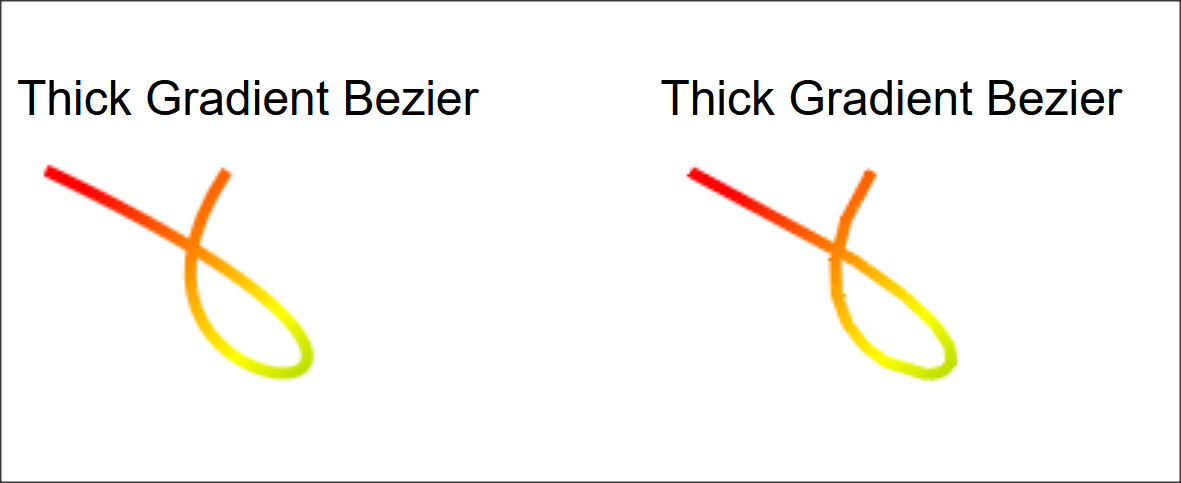
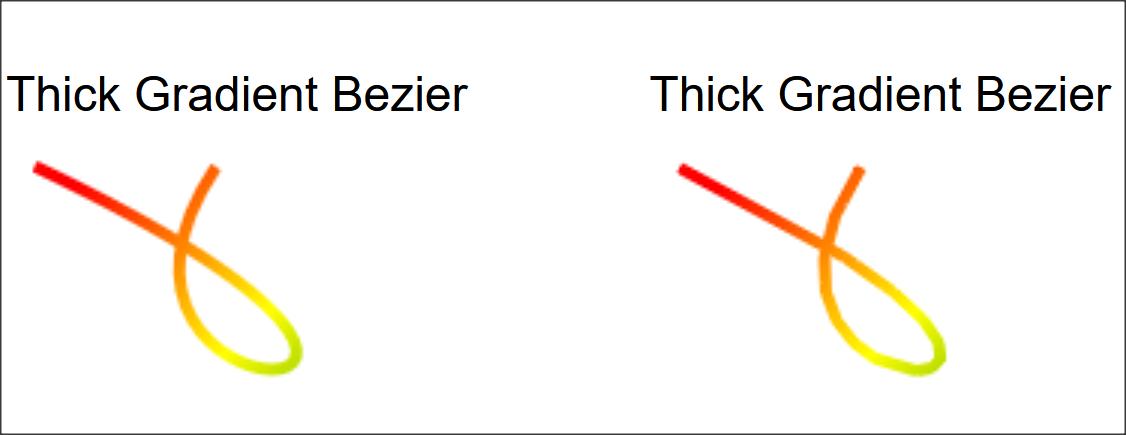
v.0.9.4
* line widths < 1
* better curve sampling
* fix/optimize fill_triangle

diff --git a/src/Rasterizer.min.js b/src/Rasterizer.min.js
@@ -6,4 +6,4 @@
 *   https://github.com/foo123/Rasterizer
 *
 **/
-!function(r,n,e){"use strict";"object"==typeof module&&module.exports?module.exports=e.call(r):"function"==typeof define&&define.amd&&"function"==typeof require&&"function"==typeof require.specified&&require.specified(n)?define(n,["module"],function(n){return e.call(r)}):n in r||(r[n]=e.call(r)||1)&&"function"==typeof define&&define.amd&&define(function(){return r[n]})}("undefined"!=typeof self?self:this,"Rasterizer",function(n){"use strict";var r=Object.defineProperty,Y=Math,D=Y.PI,e=1e-6,t=Y.sqrt(2),G=8,c=2,F=1,u="undefined"!=typeof Uint8ClampedArray?Uint8ClampedArray:"undefined"!=typeof Uint8Array?Uint8Array:Array;function s(h,g,o){var b=this;if(!(b instanceof s))return new s(h,g,o);var t,i=s.getRGBAFrom([0,0,0,1]),l=s.getRGBAFrom([0,0,0,1]),q="butt",a="miter",A=1,R=1,k=[],S=function(){t={}},w=function(n){for(var r in t){var e=t[r],r=r.split(",");n(+r[0],+r[1],e)}},B=function(n,r,e){0<=n&&n<h&&0<=r&&r<g&&0<e&&(e*=R,n=String(n)+","+String(r),(t[n]||0)<e)&&(t[n]=e)},C=function(n,r,e){var t=i(n,r),u=3<t.length?t[3]:1;0<u&&o(n,r,t[0],t[1],t[2],u*e)},f=function(n,r,e){var t=l(n,r),u=3<t.length?t[3]:1;0<u&&o(n,r,t[0],t[1],t[2],u*e)};r(b,"strokeStyle",{get:function(){return""},set:function(n){i=s.getRGBAFrom(n)}}),r(b,"fillStyle",{get:function(){return""},set:function(n){l=s.getRGBAFrom(n)}}),r(b,"lineWidth",{get:function(){return A},set:function(n){0<(n=Y.abs(+n||0))&&(A=n)}}),r(b,"lineCap",{get:function(){return q},set:function(n){n=String(n).toLowerCase(),-1!==["butt","square"].indexOf(n)?q=n:d('"'+n+'" lineCap is not supported!')}}),r(b,"lineJoin",{get:function(){return a},set:function(n){n=String(n).toLowerCase(),-1!==["miter","bevel"].indexOf(n)?a=n:d('"'+n+'" lineJoin is not supported!')}}),r(b,"lineDash",{get:function(){return k.slice()},set:function(n){1&(n=[].concat(n)).length&&(n=n.concat(n)),k=n}}),b.setLineDash=function(n){b.lineDash=n},b.strokeRect=function(n,r,e,t){var u;return 1<=e&&1<=t&&0<A&&(u=R,A<1&&(R=A),S(),L(B,[n,r,n+e-1,r,n+e-1,r+t-1,n,r+t-1,n,r],A,0,"butt","miter",0,0,h-1,g-1),w(C),R=u),b},b.fillRect=function(n,r,e,t){var u,o,i,l;return 1<=e&&1<=t&&(S(),e=n+e-1,t=(r=r)+t-1,o=u=0,i=h-1,l=g-1,O(B,Y.round(n),Y.round(r),Y.round(e),Y.round(t),u,o,i,l),w(f)),b},b.strokePolyline=function(){var n;return 0<A&&(n=R,A<1&&(R=A),S(),L(B,arguments,A,0,q,a,0,0,h-1,g-1),w(C),R=n),b},b.strokeArc=function(n,r,e,t,u,o,i,l){var f,a,c,s,d,y,x,m,v,p;return 0<A&&(l=l?(x=-i-D,o):(x=o,i),o=R,A<1&&(R=A),S(),i=B,f=n,a=r,c=e,s=t,n=u,d=x,y=l,r=A,e=k,t=q,x=u=0,l=h-1,m=g-1,v=Y.cos(n),p=Y.sin(n),L(i,P(function(n){var n=d+n*(y-d),r=c*Y.cos(n),n=s*Y.sin(n);return[f+v*r-p*n,a+p*r+v*n]},G,F,!0),r,0,t,"bevel",u,x,l,m),w(C),R=o),b},b.strokeBezier=function(){var n,i,r,e,t,u,o,l,f;return 0<A&&4<=arguments.length&&(n=R,A<1&&(R=A),S(),4===arguments.length?L(B,arguments,A,0,q,a,0,0,h-1,g-1):(r=A,e=k,t=q,o=u=0,l=h-1,f=g-1,L(B,P(6<(i=arguments).length?function(n){var r=1-n,e=n*n,t=r*r,u=t*r,o=e*n,t=3*t*n,n=3*e*r;return[u*i[0]+t*i[2]+n*i[4]+o*i[6],u*i[1]+t*i[3]+n*i[5]+o*i[7]]}:function(n){var r=1-n,e=r*r,r=2*r*n,n=n*n;return[e*i[0]+r*i[2]+n*i[4],e*i[1]+r*i[3]+n*i[5]]},G,F,!0),r,0,t,"bevel",u,o,l,f)),w(C),R=n),b}}function L(U,n,z,E,r,J,N,j,W,M){var e,t,u,o,i,T,V,H,K,l,f,Q,a,c,s,d,y,x,m,v,p,h,g,b,q,A,R,k,S,w,B,C,D,G,F,L,O,P,I,X=n.length;if(X<6)Z(U,t=n[0],u=n[1],o=n[2],i=n[3],l=Y.abs(o-t),f=Y.abs(i-u),(a=$(z,l,f))[0],a[1],r,r,N,j,W,M);else for(X-=2,e=0;e<X;e+=2)Z(U,t=n[e],u=n[e+1],o=n[e+2],i=n[e+3],l=Y.abs(o-t),f=Y.abs(i-u),(a=$(z,l,f))[0],a[1],0===e?r:null,X===e+2?r:null,N,j,W,M),1<z&&0<e&&(c=U,s=T,d=V,y=t,x=u,m=o,v=i,p=H,h=K,g=Q[0],b=Q[1],q=l,A=f,R=a[0],k=a[1],w=N,B=j,C=W,D=M,I=P=O=L=F=G=void 0,"bevel"!==(S=J)&&"miter"!==S||en(h*q,A*p)||(y<s&&m<y&&(I=s,s=m,m=I,I=d,d=v,v=I,I=p,p=q,q=I,I=h,h=A,A=I,I=g,g=R,R=I,I=b,b=k,k=I),b={x:s-(q=(p=y<s?-1:1)*g),y:d+(g=(A=x<d?-1:1)*b)},s={x:s+q,y:d-g},d={x:y-q,y:x+g},q={x:y+q,y:x-g},F={x:y-(R=(g=m<y?-1:1)*R),y:x+(k=(G=v<x?-1:1)*k)},L={x:y+R,y:x-k},O={x:m-R,y:v+k},m={x:m+R,y:v-k},R={x:y,y:x},v=p==g?A==G?tn(h,0)?(P=q,L):(P=d,F):(P=d,L):(P=q,F),"bevel"===S?(rn(c,P.x,P.y,v.x,v.y,null,null,w,B,C,D),nn(c,R.x,R.y,P.x,P.y,v.x,v.y,w,B,C,D)):"miter"===S&&(I=p==g?A==G?tn(h,0)?_(s.x,s.y,q.x,q.y,L.x,L.y,m.x,m.y):_(b.x,b.y,d.x,d.y,F.x,F.y,O.x,O.y):_(b.x,b.y,d.x,d.y,L.x,L.y,m.x,m.y):_(s.x,s.y,q.x,q.y,F.x,F.y,O.x,O.y),rn(c,P.x,P.y,I.x,I.y,null,null,w,B,C,D),rn(c,v.x,v.y,I.x,I.y,null,null,w,B,C,D),nn(c,R.x,R.y,P.x,P.y,v.x,v.y,w,B,C,D),nn(c,I.x,I.y,P.x,P.y,v.x,v.y,w,B,C,D)))),T=t,V=u,H=l,K=f,Q=a}function Z(n,r,e,t,u,o,i,l,f,a,c,s,d,y,x){var m;0===l&&0===f?rn(n,r,e,t,u,o,i,s,d,y,x):(n=n,e=e,u=u,i=i,l=l,f=f,a=a,c=c,s=s,d=d,y=y,x=x,(t=t)<(r=r)&&(m=r,r=t,t=m,m=e,e=u,u=m,m=a,a=c,c=m),m=u<e?-1:1,tn(o=o,0)?("square"===a&&(e-=m*l),"square"===c&&(u+=m*l),O(n,Y.round(r-l),Y.round(e),Y.round(r+l),Y.round(u),s,d,y,x)):tn(i,0)?("square"===a&&(r-=+f),"square"===c&&(t+=+f),O(n,Y.round(r),Y.round(e-f),Y.round(t),Y.round(e+f),s,d,y,x)):("square"===a&&(r-=+f,e-=m*l),"square"===c&&(t+=+f,u+=m*l),i=t-(o=+l),c=u+(a=m*f),l=t+o,m=u-a,rn(n,f=r-o,t=e+a,u=r+o,r=e-a,null,null,s,d,y,x),rn(n,u,r,l,m,null,null,s,d,y,x),rn(n,l,m,i,c,null,null,s,d,y,x),rn(n,i,c,f,t,null,null,s,d,y,x),nn(n,f,t,u,r,i,c,s,d,y,x),nn(n,u,r,i,c,l,m,s,d,y,x)))}function $(n,r,e){return n<=1?[0,0]:tn(r,0)?[(n-1)/2,0]:tn(e,0)?[0,(n-1)/2]:[e*(n=(n-1)/2)/(e=x(r,e)),r*n/e]}function _(n,r,e,t,u,o,i,l){var f=t-r,a=n-e,e=e*r-n*t,r=l-o,n=u-i,t=i*o-u*l,i=f*n-a*r;return!en(i,0)&&{x:(a*t-e*n)/i,y:(e*r-f*t)/i}}function O(n,r,e,t,u,o,i,l,f){var a,c;if(t<r&&(a=r,r=t,t=a),u<e&&(c=e,e=u,u=c),null!=o){if(t<o||l<r||u<i||f<e)return;r=Y.max(r,o),e=Y.max(e,i),t=Y.min(t,l),u=Y.min(u,f)}if(e===u)for(a=r;a<=t;++a)n(a,e,1);else if(r===t)for(c=e;c<=u;++c)n(r,c,1);else for(c=e;c<=u;++c)for(a=r;a<=t;++a)n(a,c,1)}function nn(n,r,e,t,u,o,i,l,f,a,c){var s,d,y,x,m,v,p,h,g,b,q,A,R,k,S=null!=l;if(!S||!(Y.max(r,t,o)<l||Y.min(r,t,o)>a||Y.max(e,u,i)<f||Y.min(e,u,i)>c)){if(u<e&&(y=e,e=u,u=y,y=r,r=t,t=y),i<e&&(y=e,e=i,i=y,y=r,r=o,o=y),i<u&&(y=u,u=i,i=y,y=t,t=o,o=y),tn(b=i-e,0))return x=Y.round(e),O(n,s=Y.round(Y.min(r,t,o)),x,d=Y.round(Y.max(r,t,o)),x,l,f,a,c);for(A=i-u,p=o-r,h=t-r,g=o-t,R=tn(q=u-e,0),k=tn(A,0),x=Y.round(e+.5),m=Y.round(u),v=Y.round(i-.5),S&&(x=Y.max(f,x),v=Y.min(c,v));x<=v;++x)if(d=x<m?R?(s=r,t):(s=p*(x-e)/b+r,h*(x-e)/q+r):k?(s=t,o):(s=p*(x-e)/b+r,g*(x-u)/A+t),Y.abs(d-s)<1)(!S||l<=s&&s<=a)&&n(Y.round(s),x,1);else for(d<s&&(y=s,s=d,d=y),s=Y.round(s+.5),d=Y.round(d-.5),S&&(s=Y.max(l,s),d=Y.min(a,d));s<=d;++s)n(s,x,1)}}function rn(n,r,e,t,u,o,i,l,f,a,c){var s=Y.min(r,t),d=Y.max(r,t),y=Y.min(e,u),x=Y.max(e,u);if(!(d<l||a<s||x<f||c<y)){if(null==o&&(o=Y.abs(t-r),i=Y.abs(u-e)),s<l||a<d||y<f||c<x){s=function(n,r,e,t,u,o,i,l){var f=-(e=-(e-n)),a=-(t=-(t-r)),u=n-u,i=i-n,o=r-o,l=l-r,c=1,s=0;if(!(0==e&&u<0||0==f&&i<0||0==t&&o<0||0==a&&l<0||(0!=e&&(u=u/e,i=i/f,e<0?(s<u&&(s=u),i<c&&(c=i)):(s<i&&(s=i),u<c&&(c=u))),0!=t&&(e=o/t,i=l/a,t<0?(s<e&&(s=e),i<c&&(c=i)):(s<i&&(s=i),e<c&&(c=e))),c<s)))return[n+f*s,r+a*s,n+f*c,r+a*c]}(r,e,t,u,l,f,a,c);if(!s)return;r=s[0],e=s[1],t=s[2],u=s[3]}if(tn(o,0)||tn(i,0))return O(n,Y.round(r),Y.round(e),Y.round(t),Y.round(u));var m,v,p,h,g=0,b=0,q=0,d=o<i;if(d&&(m=r,r=e,e=m,m=t,t=u,u=m,m=o,o=i,i=m),t<r&&(m=r,r=t,t=m,v=e,e=u,u=v),x=e+(h=(u<e?-1:1)*i/o)*((y=Y.round(r))-r),l=1-(r+.5-Y.floor(r+.5)),f=y,q=1-(b=x-(a=Y.floor(x))),d?(n(a,f,q*l),n(a+1,f,b*l)):(n(f,a,q*l),n(f,a+1,b*l)),g=x+h,x=u+h*((y=Y.round(t))-t),l=t+.5-Y.floor(t+.5),p=y,q=1-(b=x-(c=Y.floor(x))),d?(n(c,p,q*l),n(c+1,p,b*l)):(n(p,c,q*l),n(p,c+1,b*l)),d)for(m=f+1;m<p;++m)0<(q=1-(b=g-(v=Y.floor(g))))&&n(v,m,q),0<b&&n(v+1,m,b),g+=h;else for(m=f+1;m<p;++m)0<(q=1-(b=g-(v=Y.floor(g))))&&n(m,v,q),0<b&&n(m,v+1,b),g+=h}}function d(n){throw new Error(n)}function y(n,r,e){return Y.min(Y.max(n,r),e)}function en(n,r){return Y.abs(n-r)<e}function tn(n,r){return Y.abs(n-r)<Number.EPSILON}function x(n,r){n=Y.abs(n),r=Y.abs(r);var e=0;return tn(n,0)?r:tn(r,0)?n:r<n?n*Y.sqrt(1+(e=r/n)*e):n<r?r*Y.sqrt(1+(e=n/r)*e):n*t}function m(n,r,e){var t=r[0],r=r[1],u=e[0],e=e[1],o=n[0],n=n[1],u=u-t,e=e-r,i=x(u,e);return tn(i,0)?x(o-t,n-r):Y.abs(u*(r-n)-e*(t-o))/i}function P(n,r,e,t){null==r&&(r=G),null==e&&(e=F);var u,o,i=[];if(t)for(o=n(0),i.push(o[0],o[1]),u=0;u<r;++u)!function n(r,e,t,u,o,i,l){if(u<=t||en(t,u))return;var f,a,i=i||e(t),l=l||e(u);if(x(l[0]-i[0],l[1]-i[1])<=c)return void r.push(l[0],l[1]);f=(t+u)/2;a=e(f);m(a,i,l)<=o?r.push(l[0],l[1]):(n(r,e,t,f,o,i,a),n(r,e,f,u,o,a,l))}(i,n,0===u?0:u/r,r===u+1?1:(u+1)/r,e,null,null);else for(u=0;u<=r;++u)o=n(0===u?0:r===u?1:u/r),i.push(o[0],o[1]);return i}return s.VERSION="0.9.4",s.prototype={constructor:s,strokeStyle:null,fillStyle:null,lineWidth:null,lineCap:null,lineJoin:null,lineDash:null,setLineDash:null,strokeRect:null,fillRect:null,strokePolyline:null,strokeArc:null,strokeBezier:null},s.createImageData=function(n,r){return{data:new u(n*r<<2),width:n,height:r}},s.getRGBAFrom=function(e){var t;return"function"==typeof e?function(n,r){n=e(n,r);return[n[0],n[1],n[2],3<n.length?n[3]/255:1]}:(t=[e[0],e[1],e[2],3<e.length?e[3]:1],function(n,r){return t})},s.setRGBATo=function(i){var c,s,d;return"function"==typeof i?function(n,r,e,t,u,o){0<o&&i(n,r,e,t,u,o)}:(c=i.width,s=i.height,d=i.data,function(n,r,e,t,u,o){var i,l,f,a;0<=n&&n<c&&0<=r&&r<s&&0<o&&(r=d[n=n+c*r<<2],i=d[1+n],l=d[2+n],0<(a=(o=o)+(f=d[3+n]/255)*(1-o)))&&(d[n]=y(Y.round((e*o+r*f*(1-o))/a),0,255),d[1+n]=y(Y.round((t*o+i*f*(1-o))/a),0,255),d[2+n]=y(Y.round((u*o+l*f*(1-o))/a),0,255),d[3+n]=y(Y.round(255*a),0,255))})},s});
+!function(r,n,e){"use strict";"object"==typeof module&&module.exports?module.exports=e.call(r):"function"==typeof define&&define.amd&&"function"==typeof require&&"function"==typeof require.specified&&require.specified(n)?define(n,["module"],function(n){return e.call(r)}):n in r||(r[n]=e.call(r)||1)&&"function"==typeof define&&define.amd&&define(function(){return r[n]})}("undefined"!=typeof self?self:this,"Rasterizer",function(n){"use strict";var r=Object.defineProperty,Y=Math,D=Y.PI,e=1e-6,t=Y.sqrt(2),G=8,c=2,F=1,u="undefined"!=typeof Uint8ClampedArray?Uint8ClampedArray:"undefined"!=typeof Uint8Array?Uint8Array:Array;function s(h,g,o){var b=this;if(!(b instanceof s))return new s(h,g,o);var t,i=s.getRGBAFrom([0,0,0,1]),l=s.getRGBAFrom([0,0,0,1]),q="butt",a="miter",A=1,R=1,k=[],S=function(){t={}},w=function(n){for(var r in t){var e=t[r],r=r.split(",");n(+r[0],+r[1],e)}},B=function(n,r,e){0<=n&&n<h&&0<=r&&r<g&&0<e&&(e*=R,n=String(n)+","+String(r),(t[n]||0)<e)&&(t[n]=e)},C=function(n,r,e){var t=i(n,r),u=3<t.length?t[3]:1;0<u&&o(n,r,t[0],t[1],t[2],u*e)},f=function(n,r,e){var t=l(n,r),u=3<t.length?t[3]:1;0<u&&o(n,r,t[0],t[1],t[2],u*e)};r(b,"strokeStyle",{get:function(){return""},set:function(n){i=s.getRGBAFrom(n)}}),r(b,"fillStyle",{get:function(){return""},set:function(n){l=s.getRGBAFrom(n)}}),r(b,"lineWidth",{get:function(){return A},set:function(n){0<(n=Y.abs(+n||0))&&(A=n)}}),r(b,"lineCap",{get:function(){return q},set:function(n){n=String(n).toLowerCase(),-1!==["butt","square"].indexOf(n)?q=n:d('"'+n+'" lineCap is not supported!')}}),r(b,"lineJoin",{get:function(){return a},set:function(n){n=String(n).toLowerCase(),-1!==["miter","bevel"].indexOf(n)?a=n:d('"'+n+'" lineJoin is not supported!')}}),r(b,"lineDash",{get:function(){return k.slice()},set:function(n){1&(n=[].concat(n)).length&&(n=n.concat(n)),k=n}}),b.setLineDash=function(n){b.lineDash=n},b.strokeRect=function(n,r,e,t){var u;return 1<=e&&1<=t&&0<A&&(u=R,A<1&&(R=A),S(),L(B,[n,r,n+e-1,r,n+e-1,r+t-1,n,r+t-1,n,r],A,0,"butt","miter",0,0,h-1,g-1),w(C),R=u),b},b.fillRect=function(n,r,e,t){var u,o,i,l;return 1<=e&&1<=t&&(S(),e=n+e-1,t=(r=r)+t-1,o=u=0,i=h-1,l=g-1,O(B,Y.round(n),Y.round(r),Y.round(e),Y.round(t),u,o,i,l),w(f)),b},b.strokePolyline=function(){var n;return 0<A&&(n=R,A<1&&(R=A),S(),L(B,arguments,A,0,q,a,0,0,h-1,g-1),w(C),R=n),b},b.strokeArc=function(n,r,e,t,u,o,i,l){var f,a,c,s,d,y,x,m,v,p;return 0<A&&(l=l?(x=-i-D,o):(x=o,i),o=R,A<1&&(R=A),S(),i=B,f=n,a=r,c=e,s=t,n=u,d=x,y=l,r=A,e=k,t=q,x=u=0,l=h-1,m=g-1,v=Y.cos(n),p=Y.sin(n),L(i,P(function(n){var n=d+n*(y-d),r=c*Y.cos(n),n=s*Y.sin(n);return[f+v*r-p*n,a+p*r+v*n]},G,F,!0),r,0,t,"bevel",u,x,l,m),w(C),R=o),b},b.strokeBezier=function(){var n,i,r,e,t,u,o,l,f;return 0<A&&4<=arguments.length&&(n=R,A<1&&(R=A),S(),4===arguments.length?L(B,arguments,A,0,q,a,0,0,h-1,g-1):(r=A,e=k,t=q,o=u=0,l=h-1,f=g-1,L(B,P(6<(i=arguments).length?function(n){var r=1-n,e=n*n,t=r*r,u=t*r,o=e*n,t=3*t*n,n=3*e*r;return[u*i[0]+t*i[2]+n*i[4]+o*i[6],u*i[1]+t*i[3]+n*i[5]+o*i[7]]}:function(n){var r=1-n,e=r*r,r=2*r*n,n=n*n;return[e*i[0]+r*i[2]+n*i[4],e*i[1]+r*i[3]+n*i[5]]},G,F,!0),r,0,t,"bevel",u,o,l,f)),w(C),R=n),b}}function L(U,n,z,E,r,J,N,j,W,M){var e,t,u,o,i,T,V,H,K,l,f,Q,a,c,s,d,y,x,m,v,p,h,g,b,q,A,R,k,S,w,B,C,D,G,F,L,O,P,I,X=n.length;if(X<6)Z(U,t=n[0],u=n[1],o=n[2],i=n[3],l=Y.abs(o-t),f=Y.abs(i-u),(a=$(z,l,f))[0],a[1],r,r,N,j,W,M);else for(X-=2,e=0;e<X;e+=2)Z(U,t=n[e],u=n[e+1],o=n[e+2],i=n[e+3],l=Y.abs(o-t),f=Y.abs(i-u),(a=$(z,l,f))[0],a[1],0===e?r:null,X===e+2?r:null,N,j,W,M),1<z&&0<e&&(c=U,s=T,d=V,y=t,x=u,m=o,v=i,p=H,h=K,g=Q[0],b=Q[1],q=l,A=f,R=a[0],k=a[1],w=N,B=j,C=W,D=M,I=P=O=L=F=G=void 0,"bevel"!==(S=J)&&"miter"!==S||en(h*q,A*p)||(y<s&&m<y&&(I=s,s=m,m=I,I=d,d=v,v=I,I=p,p=q,q=I,I=h,h=A,A=I,I=g,g=R,R=I,I=b,b=k,k=I),b={x:s-(q=(p=y<s?-1:1)*g),y:d+(g=(A=x<d?-1:1)*b)},s={x:s+q,y:d-g},d={x:y-q,y:x+g},q={x:y+q,y:x-g},F={x:y-(R=(g=m<y?-1:1)*R),y:x+(k=(G=v<x?-1:1)*k)},L={x:y+R,y:x-k},O={x:m-R,y:v+k},m={x:m+R,y:v-k},R={x:y,y:x},v=p==g?A==G?tn(h,0)?(P=q,L):(P=d,F):(P=d,L):(P=q,F),"bevel"===S?(rn(c,P.x,P.y,v.x,v.y,null,null,w,B,C,D),nn(c,R.x,R.y,P.x,P.y,v.x,v.y,w,B,C,D)):"miter"===S&&(I=p==g?A==G?tn(h,0)?_(s.x,s.y,q.x,q.y,L.x,L.y,m.x,m.y):_(b.x,b.y,d.x,d.y,F.x,F.y,O.x,O.y):_(b.x,b.y,d.x,d.y,L.x,L.y,m.x,m.y):_(s.x,s.y,q.x,q.y,F.x,F.y,O.x,O.y),rn(c,P.x,P.y,I.x,I.y,null,null,w,B,C,D),rn(c,v.x,v.y,I.x,I.y,null,null,w,B,C,D),nn(c,R.x,R.y,P.x,P.y,v.x,v.y,w,B,C,D),nn(c,I.x,I.y,P.x,P.y,v.x,v.y,w,B,C,D)))),T=t,V=u,H=l,K=f,Q=a}function Z(n,r,e,t,u,o,i,l,f,a,c,s,d,y,x){var m;0===l&&0===f?rn(n,r,e,t,u,o,i,s,d,y,x):(n=n,e=e,u=u,i=i,l=l,f=f,a=a,c=c,s=s,d=d,y=y,x=x,(t=t)<(r=r)&&(m=r,r=t,t=m,m=e,e=u,u=m,m=a,a=c,c=m),m=u<e?-1:1,tn(o=o,0)?("square"===a&&(e-=m*l),"square"===c&&(u+=m*l),O(n,Y.round(r-l),Y.round(e),Y.round(r+l),Y.round(u),s,d,y,x)):tn(i,0)?("square"===a&&(r-=+f),"square"===c&&(t+=+f),O(n,Y.round(r),Y.round(e-f),Y.round(t),Y.round(e+f),s,d,y,x)):("square"===a&&(r-=+f,e-=m*l),"square"===c&&(t+=+f,u+=m*l),i=t-(o=+l),c=u+(a=m*f),l=t+o,m=u-a,rn(n,f=r-o,t=e+a,u=r+o,r=e-a,null,null,s,d,y,x),rn(n,u,r,l,m,null,null,s,d,y,x),rn(n,l,m,i,c,null,null,s,d,y,x),rn(n,i,c,f,t,null,null,s,d,y,x),nn(n,f,t,u,r,i,c,s,d,y,x),nn(n,u,r,i,c,l,m,s,d,y,x)))}function $(n,r,e){return n<=1?[0,0]:tn(r,0)?[(n-1)/2,0]:tn(e,0)?[0,(n-1)/2]:[e*(n=(n-1)/2)/(e=x(r,e)),r*n/e]}function _(n,r,e,t,u,o,i,l){var f=t-r,a=n-e,e=e*r-n*t,r=l-o,n=u-i,t=i*o-u*l,i=f*n-a*r;return!en(i,0)&&{x:(a*t-e*n)/i,y:(e*r-f*t)/i}}function O(n,r,e,t,u,o,i,l,f){var a,c;if(t<r&&(a=r,r=t,t=a),u<e&&(c=e,e=u,u=c),null!=o){if(t<o||l<r||u<i||f<e)return;r=Y.max(r,o),e=Y.max(e,i),t=Y.min(t,l),u=Y.min(u,f)}if(e===u)for(a=r;a<=t;++a)n(a,e,1);else if(r===t)for(c=e;c<=u;++c)n(r,c,1);else for(c=e;c<=u;++c)for(a=r;a<=t;++a)n(a,c,1)}function nn(n,r,e,t,u,o,i,l,f,a,c){var s,d,y,x,m,v,p,h,g,b,q,A,R,k,S=null!=l;if(!S||!(Y.max(r,t,o)<l||Y.min(r,t,o)>a||Y.max(e,u,i)<f||Y.min(e,u,i)>c)){if(u<e&&(y=e,e=u,u=y,y=r,r=t,t=y),i<e&&(y=e,e=i,i=y,y=r,r=o,o=y),i<u&&(y=u,u=i,i=y,y=t,t=o,o=y),tn(b=i-e,0))return x=Y.round(e),O(n,s=Y.round(Y.min(r,t,o)),x,d=Y.round(Y.max(r,t,o)),x,l,f,a,c);for(A=i-u,p=o-r,h=t-r,g=o-t,R=tn(q=u-e,0),k=tn(A,0),x=Y.round(e+.5),m=u,v=Y.round(i-.5),S&&(x=Y.max(f,x),v=Y.min(c,v));x<=v;++x)if(d=x<m?R?(s=r,t):(s=p*(x-e)/b+r,h*(x-e)/q+r):k?(s=t,o):(s=p*(x-e)/b+r,g*(x-u)/A+t),Y.abs(d-s)<1)(!S||l<=s&&s<=a)&&n(Y.round(s),x,1);else for(d<s&&(y=s,s=d,d=y),s=Y.round(s+.5),d=Y.round(d-.5),S&&(s=Y.max(l,s),d=Y.min(a,d));s<=d;++s)n(s,x,1)}}function rn(n,r,e,t,u,o,i,l,f,a,c){var s=Y.min(r,t),d=Y.max(r,t),y=Y.min(e,u),x=Y.max(e,u);if(!(d<l||a<s||x<f||c<y)){if(null==o&&(o=Y.abs(t-r),i=Y.abs(u-e)),s<l||a<d||y<f||c<x){s=function(n,r,e,t,u,o,i,l){var f=-(e=-(e-n)),a=-(t=-(t-r)),u=n-u,i=i-n,o=r-o,l=l-r,c=1,s=0;if(!(0==e&&u<0||0==f&&i<0||0==t&&o<0||0==a&&l<0||(0!=e&&(u=u/e,i=i/f,e<0?(s<u&&(s=u),i<c&&(c=i)):(s<i&&(s=i),u<c&&(c=u))),0!=t&&(e=o/t,i=l/a,t<0?(s<e&&(s=e),i<c&&(c=i)):(s<i&&(s=i),e<c&&(c=e))),c<s)))return[n+f*s,r+a*s,n+f*c,r+a*c]}(r,e,t,u,l,f,a,c);if(!s)return;r=s[0],e=s[1],t=s[2],u=s[3]}if(tn(o,0)||tn(i,0))return O(n,Y.round(r),Y.round(e),Y.round(t),Y.round(u));var m,v,p,h,g=0,b=0,q=0,d=o<i;if(d&&(m=r,r=e,e=m,m=t,t=u,u=m,m=o,o=i,i=m),t<r&&(m=r,r=t,t=m,v=e,e=u,u=v),x=e+(h=(u<e?-1:1)*i/o)*((y=Y.round(r))-r),l=1-(r+.5-Y.floor(r+.5)),f=y,q=1-(b=x-(a=Y.floor(x))),d?(n(a,f,q*l),n(a+1,f,b*l)):(n(f,a,q*l),n(f,a+1,b*l)),g=x+h,x=u+h*((y=Y.round(t))-t),l=t+.5-Y.floor(t+.5),p=y,q=1-(b=x-(c=Y.floor(x))),d?(n(c,p,q*l),n(c+1,p,b*l)):(n(p,c,q*l),n(p,c+1,b*l)),d)for(m=f+1;m<p;++m)0<(q=1-(b=g-(v=Y.floor(g))))&&n(v,m,q),0<b&&n(v+1,m,b),g+=h;else for(m=f+1;m<p;++m)0<(q=1-(b=g-(v=Y.floor(g))))&&n(m,v,q),0<b&&n(m,v+1,b),g+=h}}function d(n){throw new Error(n)}function y(n,r,e){return Y.min(Y.max(n,r),e)}function en(n,r){return Y.abs(n-r)<e}function tn(n,r){return Y.abs(n-r)<Number.EPSILON}function x(n,r){n=Y.abs(n),r=Y.abs(r);var e=0;return tn(n,0)?r:tn(r,0)?n:r<n?n*Y.sqrt(1+(e=r/n)*e):n<r?r*Y.sqrt(1+(e=n/r)*e):n*t}function m(n,r,e){var t=r[0],r=r[1],u=e[0],e=e[1],o=n[0],n=n[1],u=u-t,e=e-r,i=x(u,e);return tn(i,0)?x(o-t,n-r):Y.abs(u*(r-n)-e*(t-o))/i}function P(n,r,e,t){null==r&&(r=G),null==e&&(e=F);var u,o,i=[];if(t)for(o=n(0),i.push(o[0],o[1]),u=0;u<r;++u)!function n(r,e,t,u,o,i,l){if(u<=t||en(t,u))return;var f,a,i=i||e(t),l=l||e(u);if(x(l[0]-i[0],l[1]-i[1])<=c)return void r.push(l[0],l[1]);f=(t+u)/2;a=e(f);m(a,i,l)<=o?r.push(l[0],l[1]):(n(r,e,t,f,o,i,a),n(r,e,f,u,o,a,l))}(i,n,0===u?0:u/r,r===u+1?1:(u+1)/r,e,null,null);else for(u=0;u<=r;++u)o=n(0===u?0:r===u?1:u/r),i.push(o[0],o[1]);return i}return s.VERSION="0.9.4",s.prototype={constructor:s,strokeStyle:null,fillStyle:null,lineWidth:null,lineCap:null,lineJoin:null,lineDash:null,setLineDash:null,strokeRect:null,fillRect:null,strokePolyline:null,strokeArc:null,strokeBezier:null},s.createImageData=function(n,r){return{data:new u(n*r<<2),width:n,height:r}},s.getRGBAFrom=function(e){var t;return"function"==typeof e?function(n,r){n=e(n,r);return[n[0],n[1],n[2],3<n.length?n[3]/255:1]}:(t=[e[0],e[1],e[2],3<e.length?e[3]:1],function(n,r){return t})},s.setRGBATo=function(i){var c,s,d;return"function"==typeof i?function(n,r,e,t,u,o){0<o&&i(n,r,e,t,u,o)}:(c=i.width,s=i.height,d=i.data,function(n,r,e,t,u,o){var i,l,f,a;0<=n&&n<c&&0<=r&&r<s&&0<o&&(r=d[n=n+c*r<<2],i=d[1+n],l=d[2+n],0<(a=(o=o)+(f=d[3+n]/255)*(1-o)))&&(d[n]=y(Y.round((e*o+r*f*(1-o))/a),0,255),d[1+n]=y(Y.round((t*o+i*f*(1-o))/a),0,255),d[2+n]=y(Y.round((u*o+l*f*(1-o))/a),0,255),d[3+n]=y(Y.round(255*a),0,255))})},s});

diff --git a/src/Rasterizer.js b/src/Rasterizer.js
@@ -551,7 +551,7 @@ function fill_triangle(set_pixel, ax, ay, bx, by, cx, cy, xmin, ymin, xmax, ymax
     zab = is_strictly_equal(yab, 0);
     zbc = is_strictly_equal(ybc, 0);
     y = stdMath.round(ay + e);
-    yb = stdMath.round(by);
+    yb = by;
     yc = stdMath.round(cy - e);
     if (clip) {y = stdMath.max(ymin, y); yc = stdMath.min(ymax, yc);}
     for (; y<=yc; ++y)
